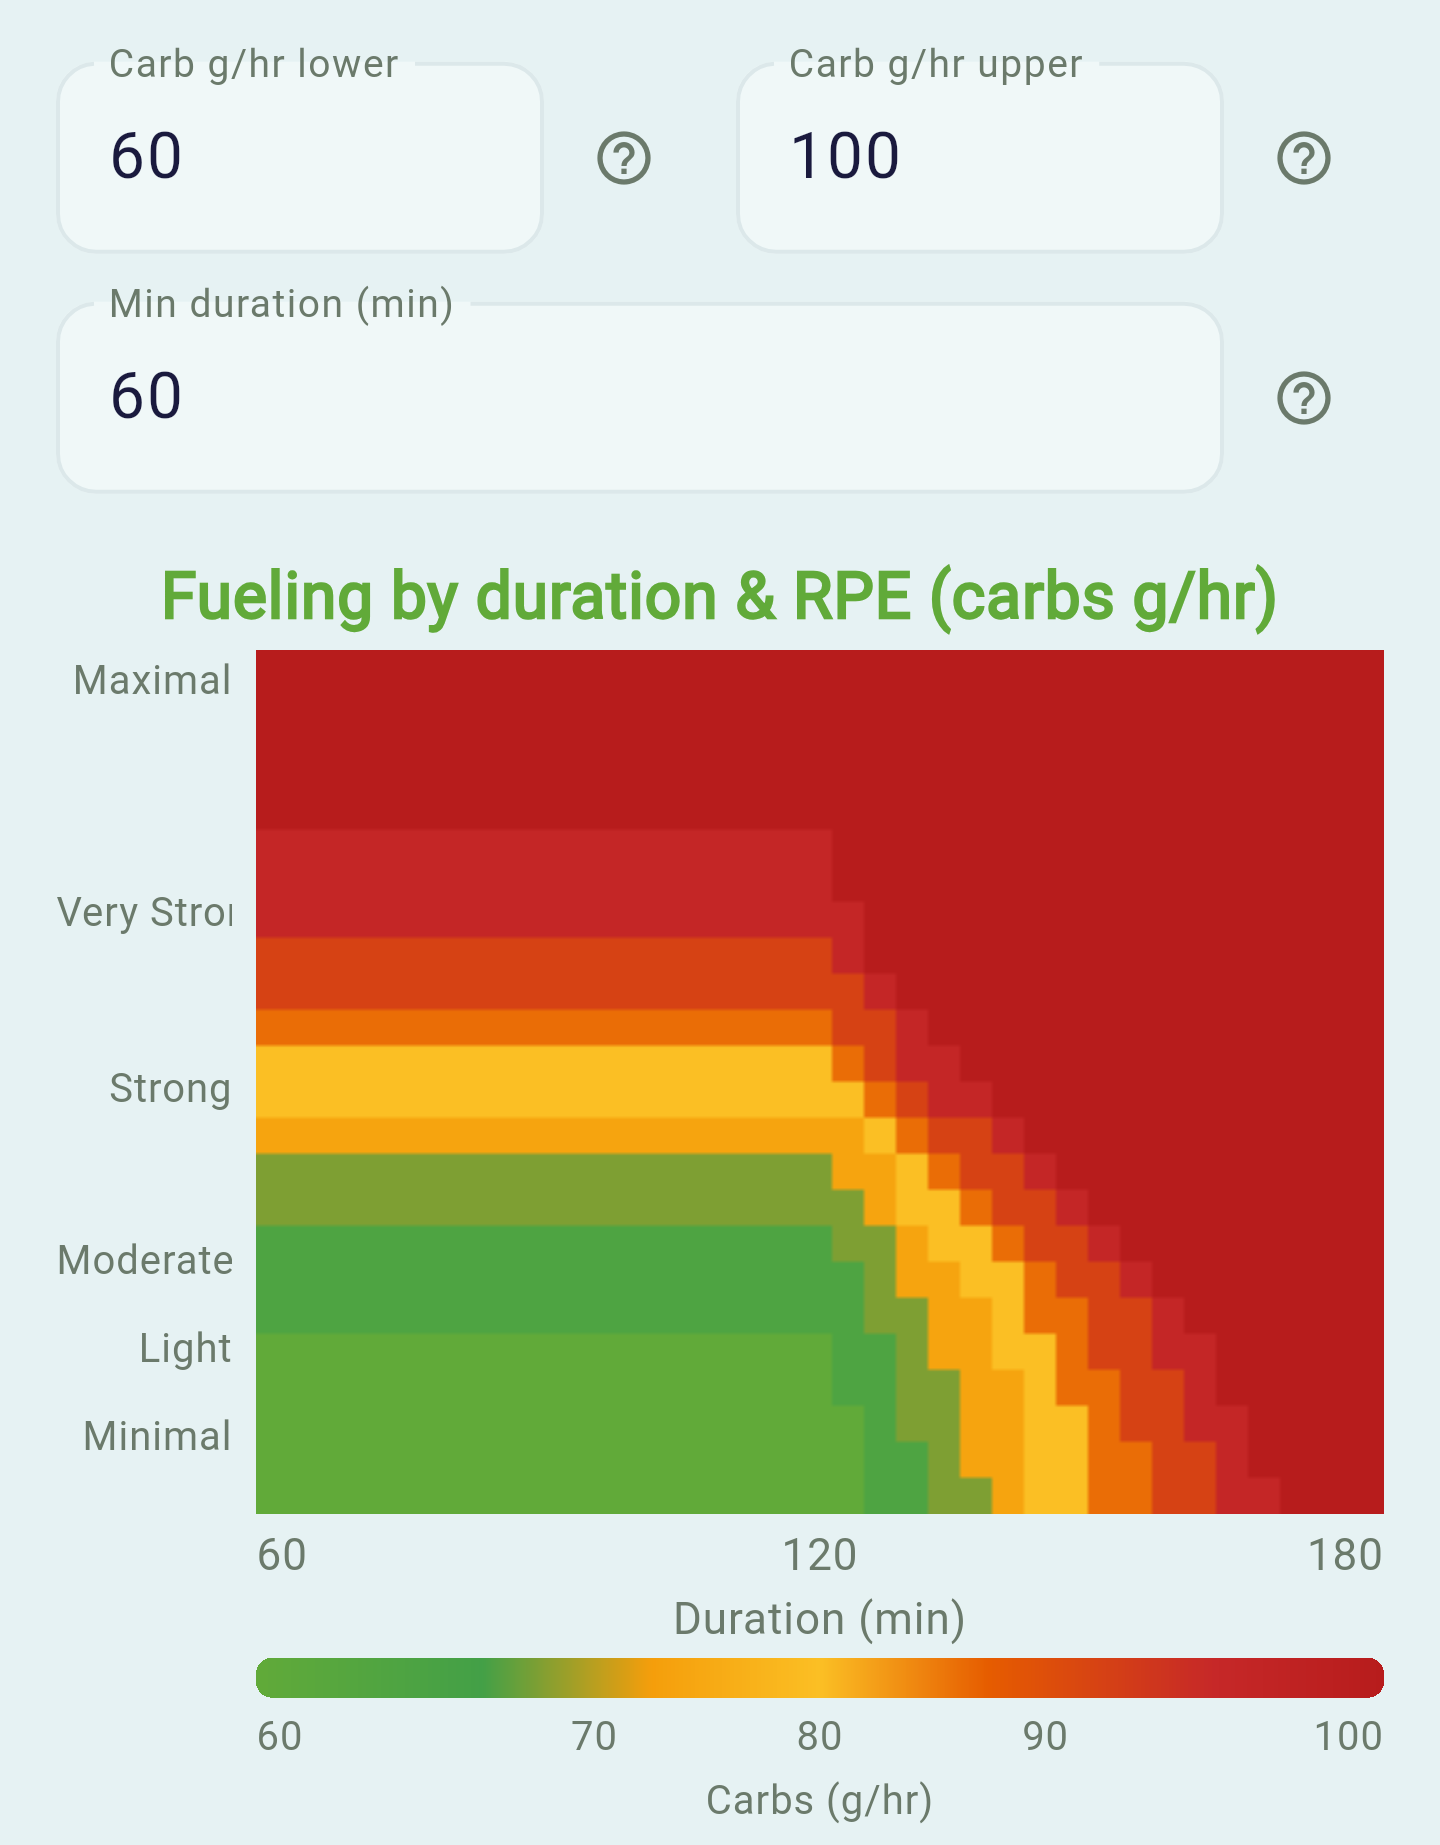
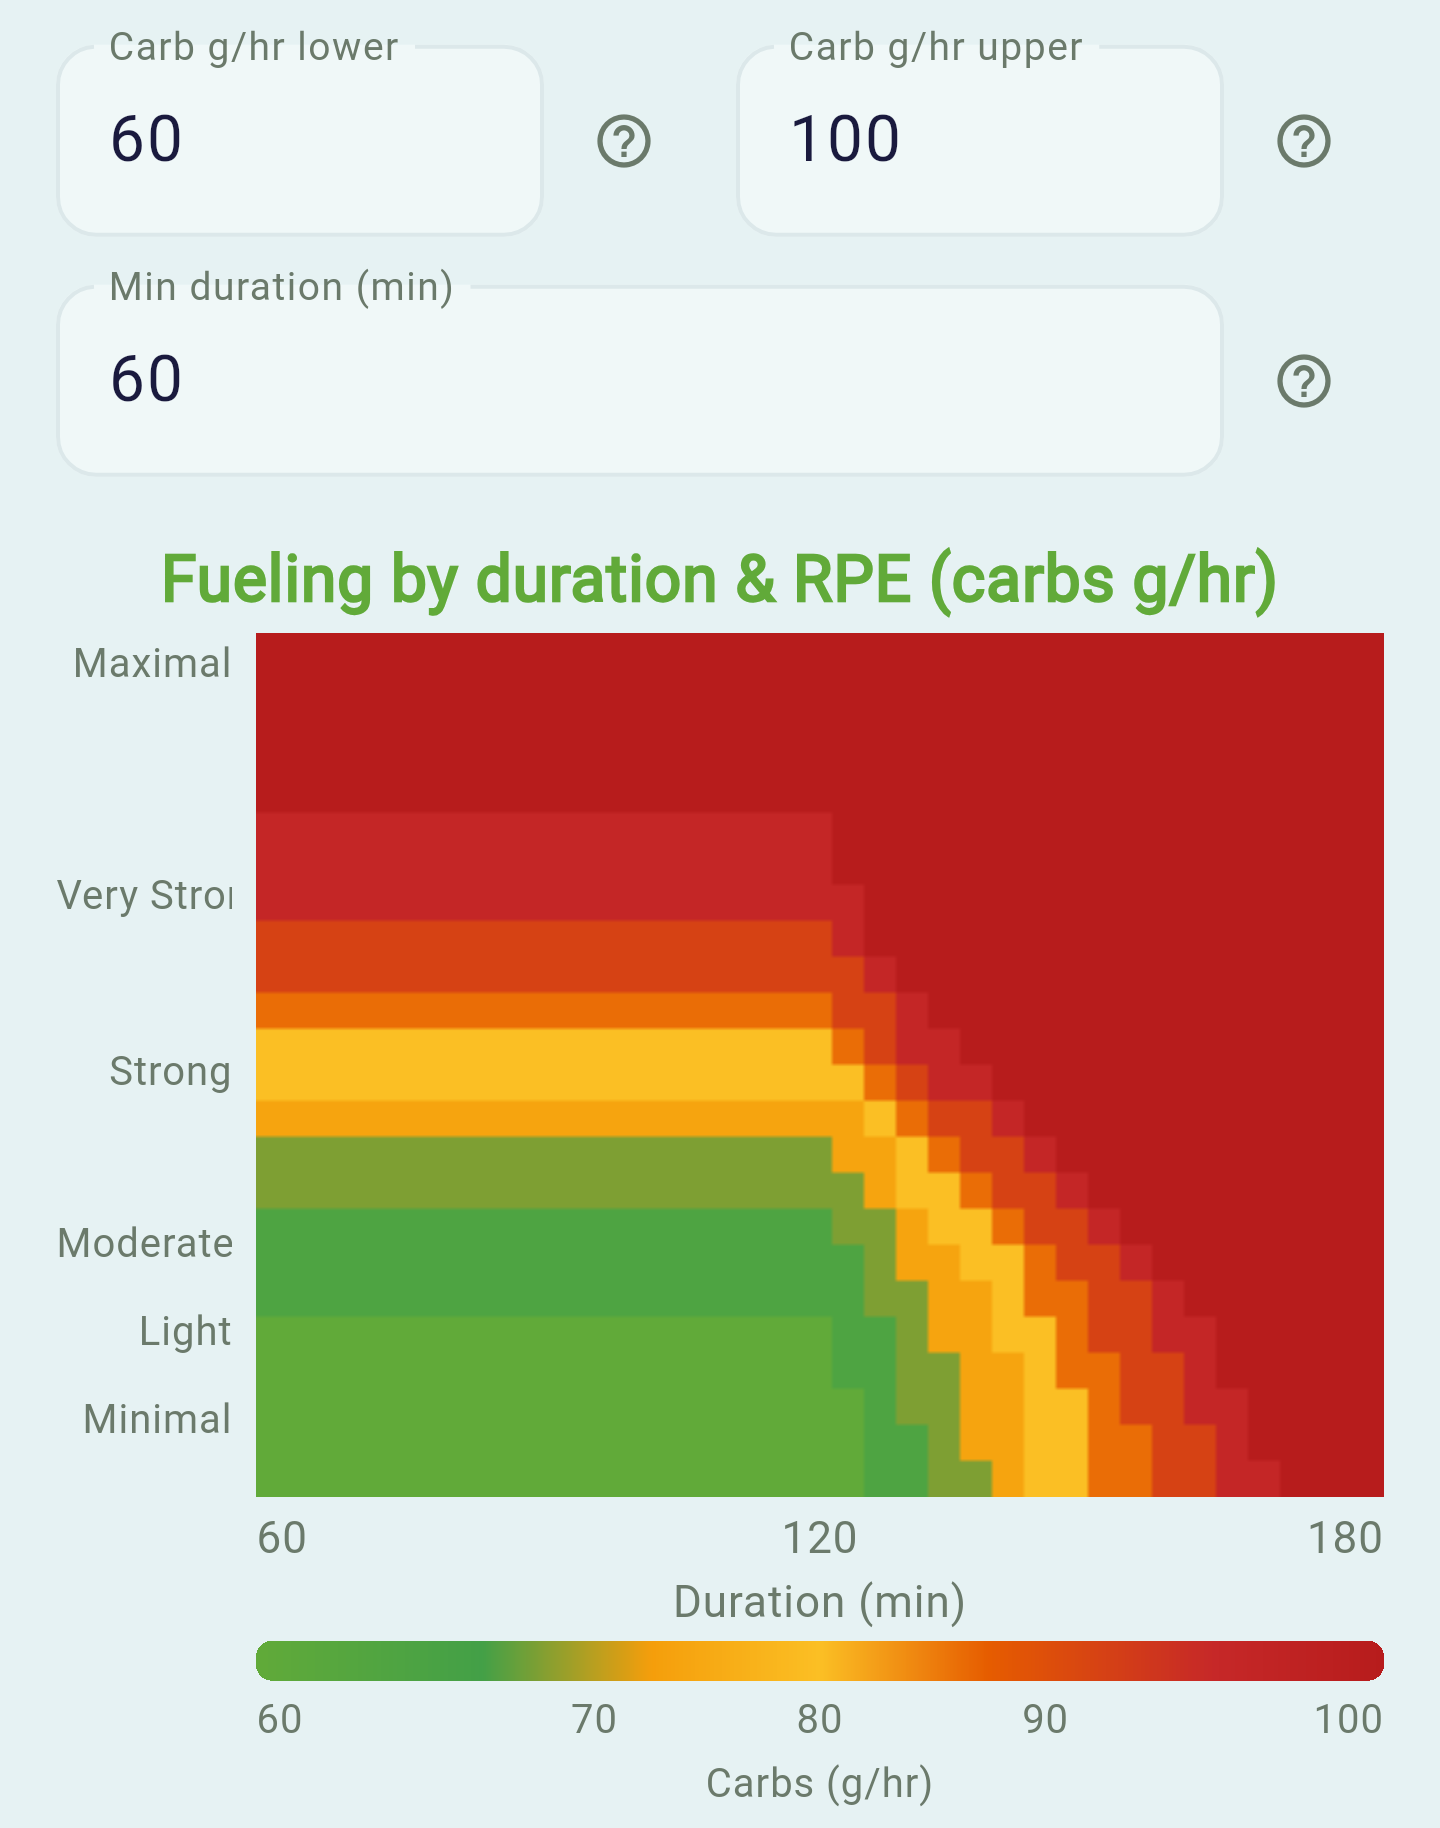
text edits

diff --git a/index.html b/index.html
@@ -758,7 +758,7 @@
           <div class="split-kicker"><span>01</span> Set up</div>
           <h3>Set your baseline targets &amp; intensity scaling</h3>
           <p>Enter your bodyweight, energy availability target, and baseline macronutrient distribution — the foundation of your daily nutrition outside training sessions.</p>
-          <p>Then set upper and lower carbohydrate and calorie limits per hour, and the RPE point where targets start ramping up. Fully customisable to your training style and GI tolerance.</p>
+          <p>Then set upper and lower carbohydrate and calorie limits per hour, and dial in your fueling for each sport. Fully customisable to your training output and GI tolerance.</p>
         </div>
         <div class="split-visual">
           <div class="app-shot-duo">
@@ -786,7 +786,7 @@
         <div class="split-copy">
           <div class="split-kicker"><span>02</span> Sync</div>
           <h3>Sync your sessions</h3>
-          <p>Connect Intervals.icu to automatically pull in your training sessions. Each session gets its own pre/post and during-session fuel targets based on duration and intensity.</p>
+          <p>Connect to your device via Intervals.icu to automatically pull in your training sessions, or add one manually. Each session gets its own pre/post and during-session fuel targets based on duration and intensity.</p>
         </div>
         <div class="split-visual">
           <div class="app-shot">
@@ -804,7 +804,7 @@
         <div class="split-copy">
           <div class="split-kicker"><span>03</span> Log</div>
           <h3>Log food</h3>
-          <p>Log meals using saved templates or the Open Food Facts database. Use Suggest quantities or ask the AI assistant to hit your remaining targets for the day.</p>
+          <p>Log foods using saved meals, barcode scanning, photo recognition, suggested recipies, or search an extensive database. Use Suggest quantities or ask the AI assistant for a meal that hits your remaining targets.</p>
         </div>
         <div class="split-visual">
           <div class="app-shot">
